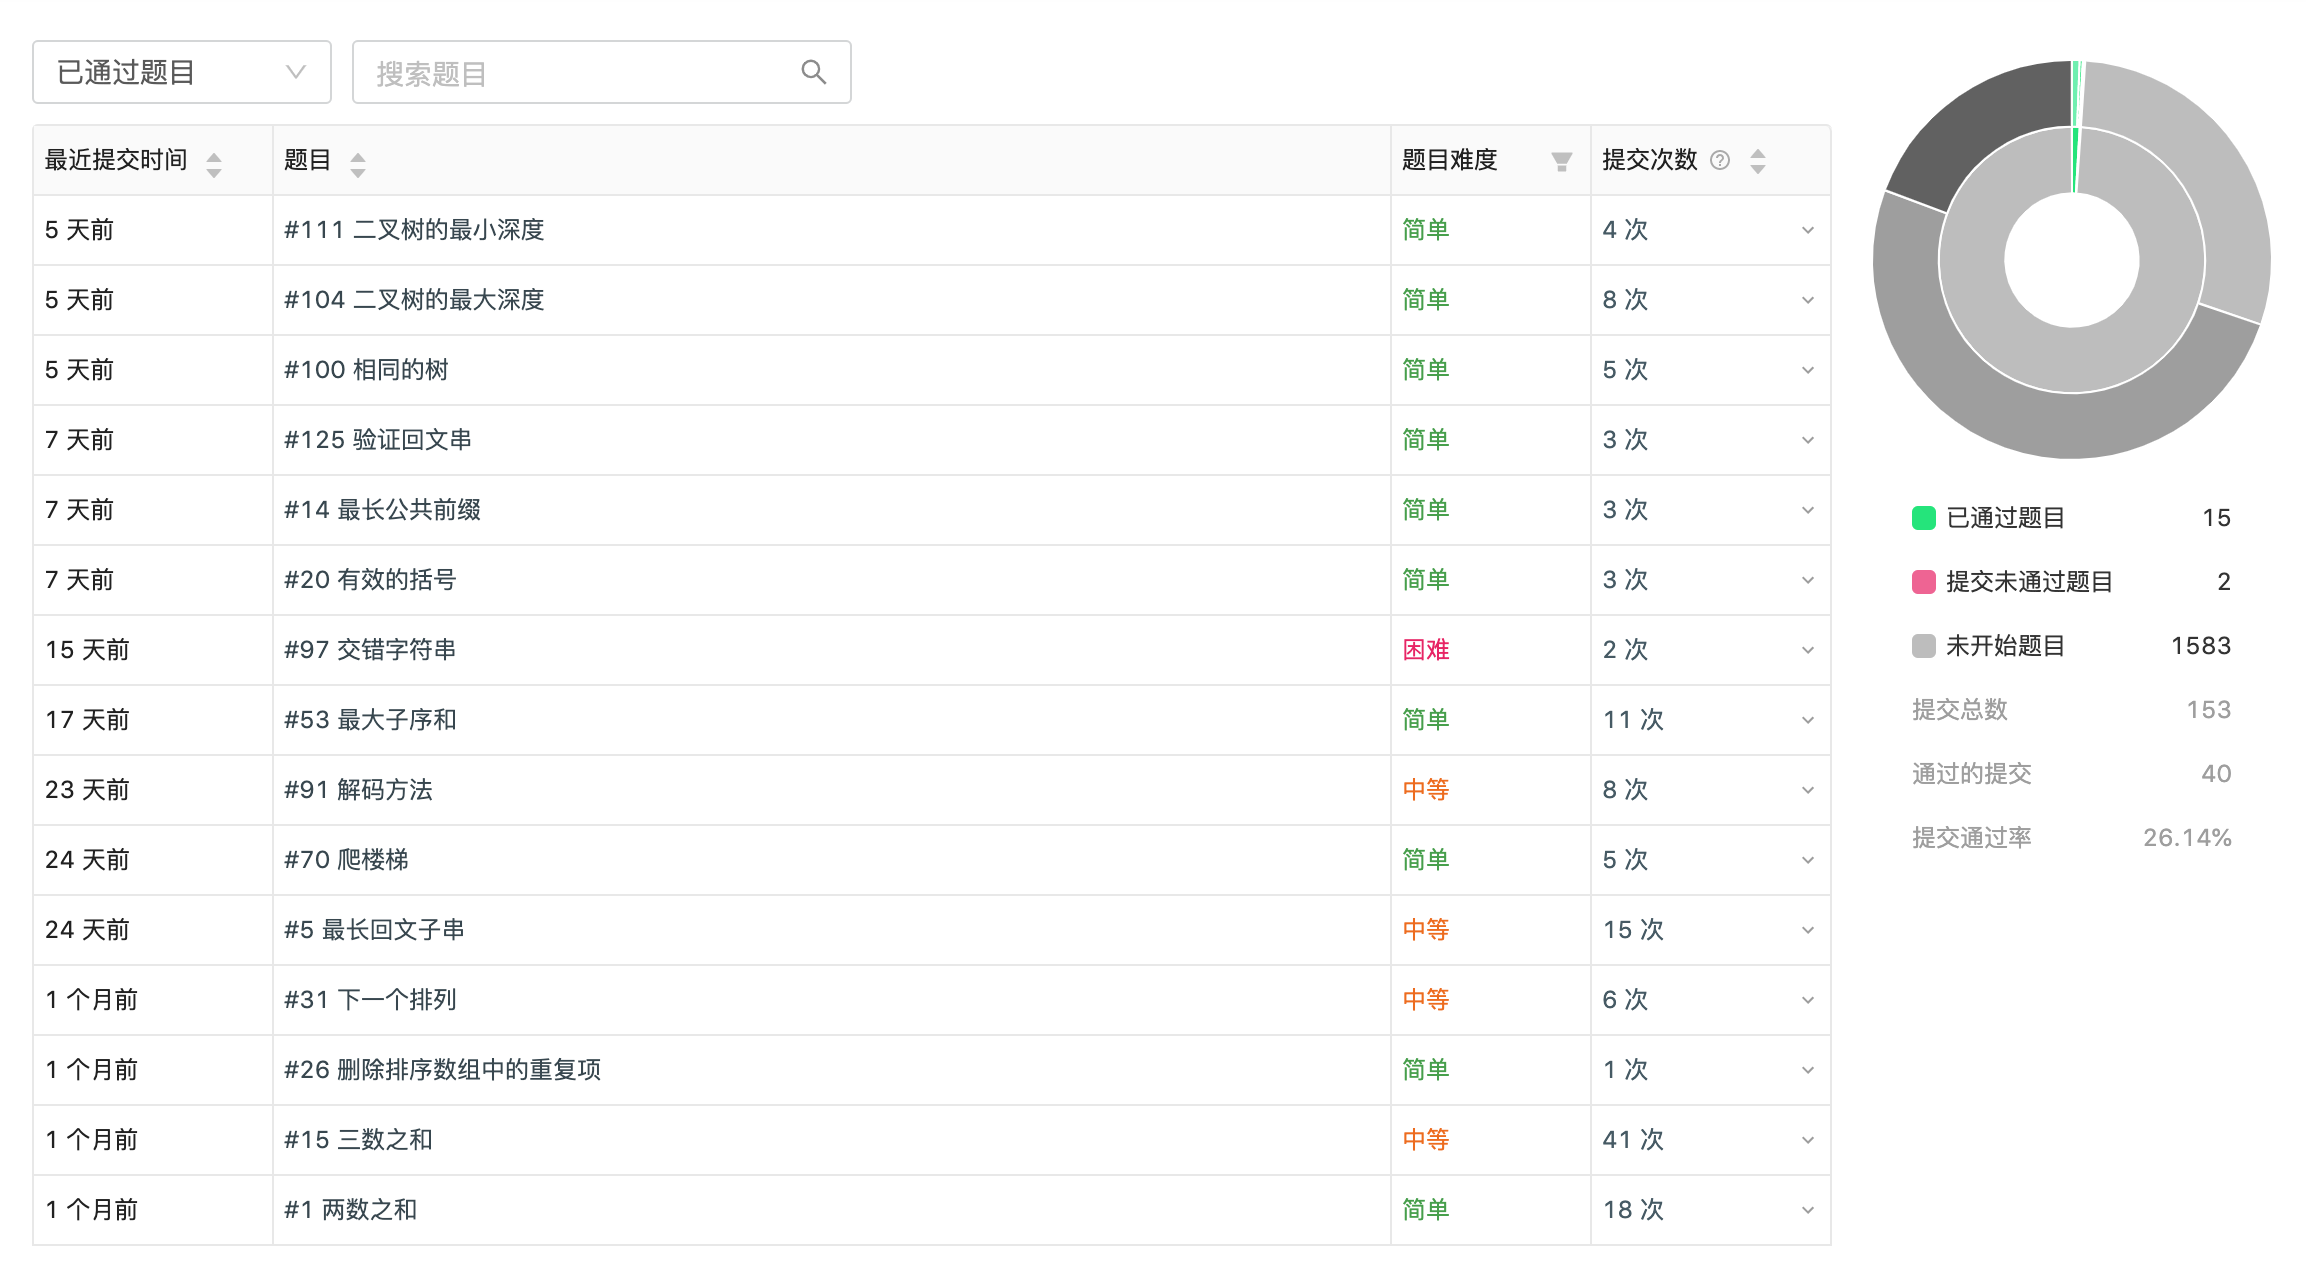
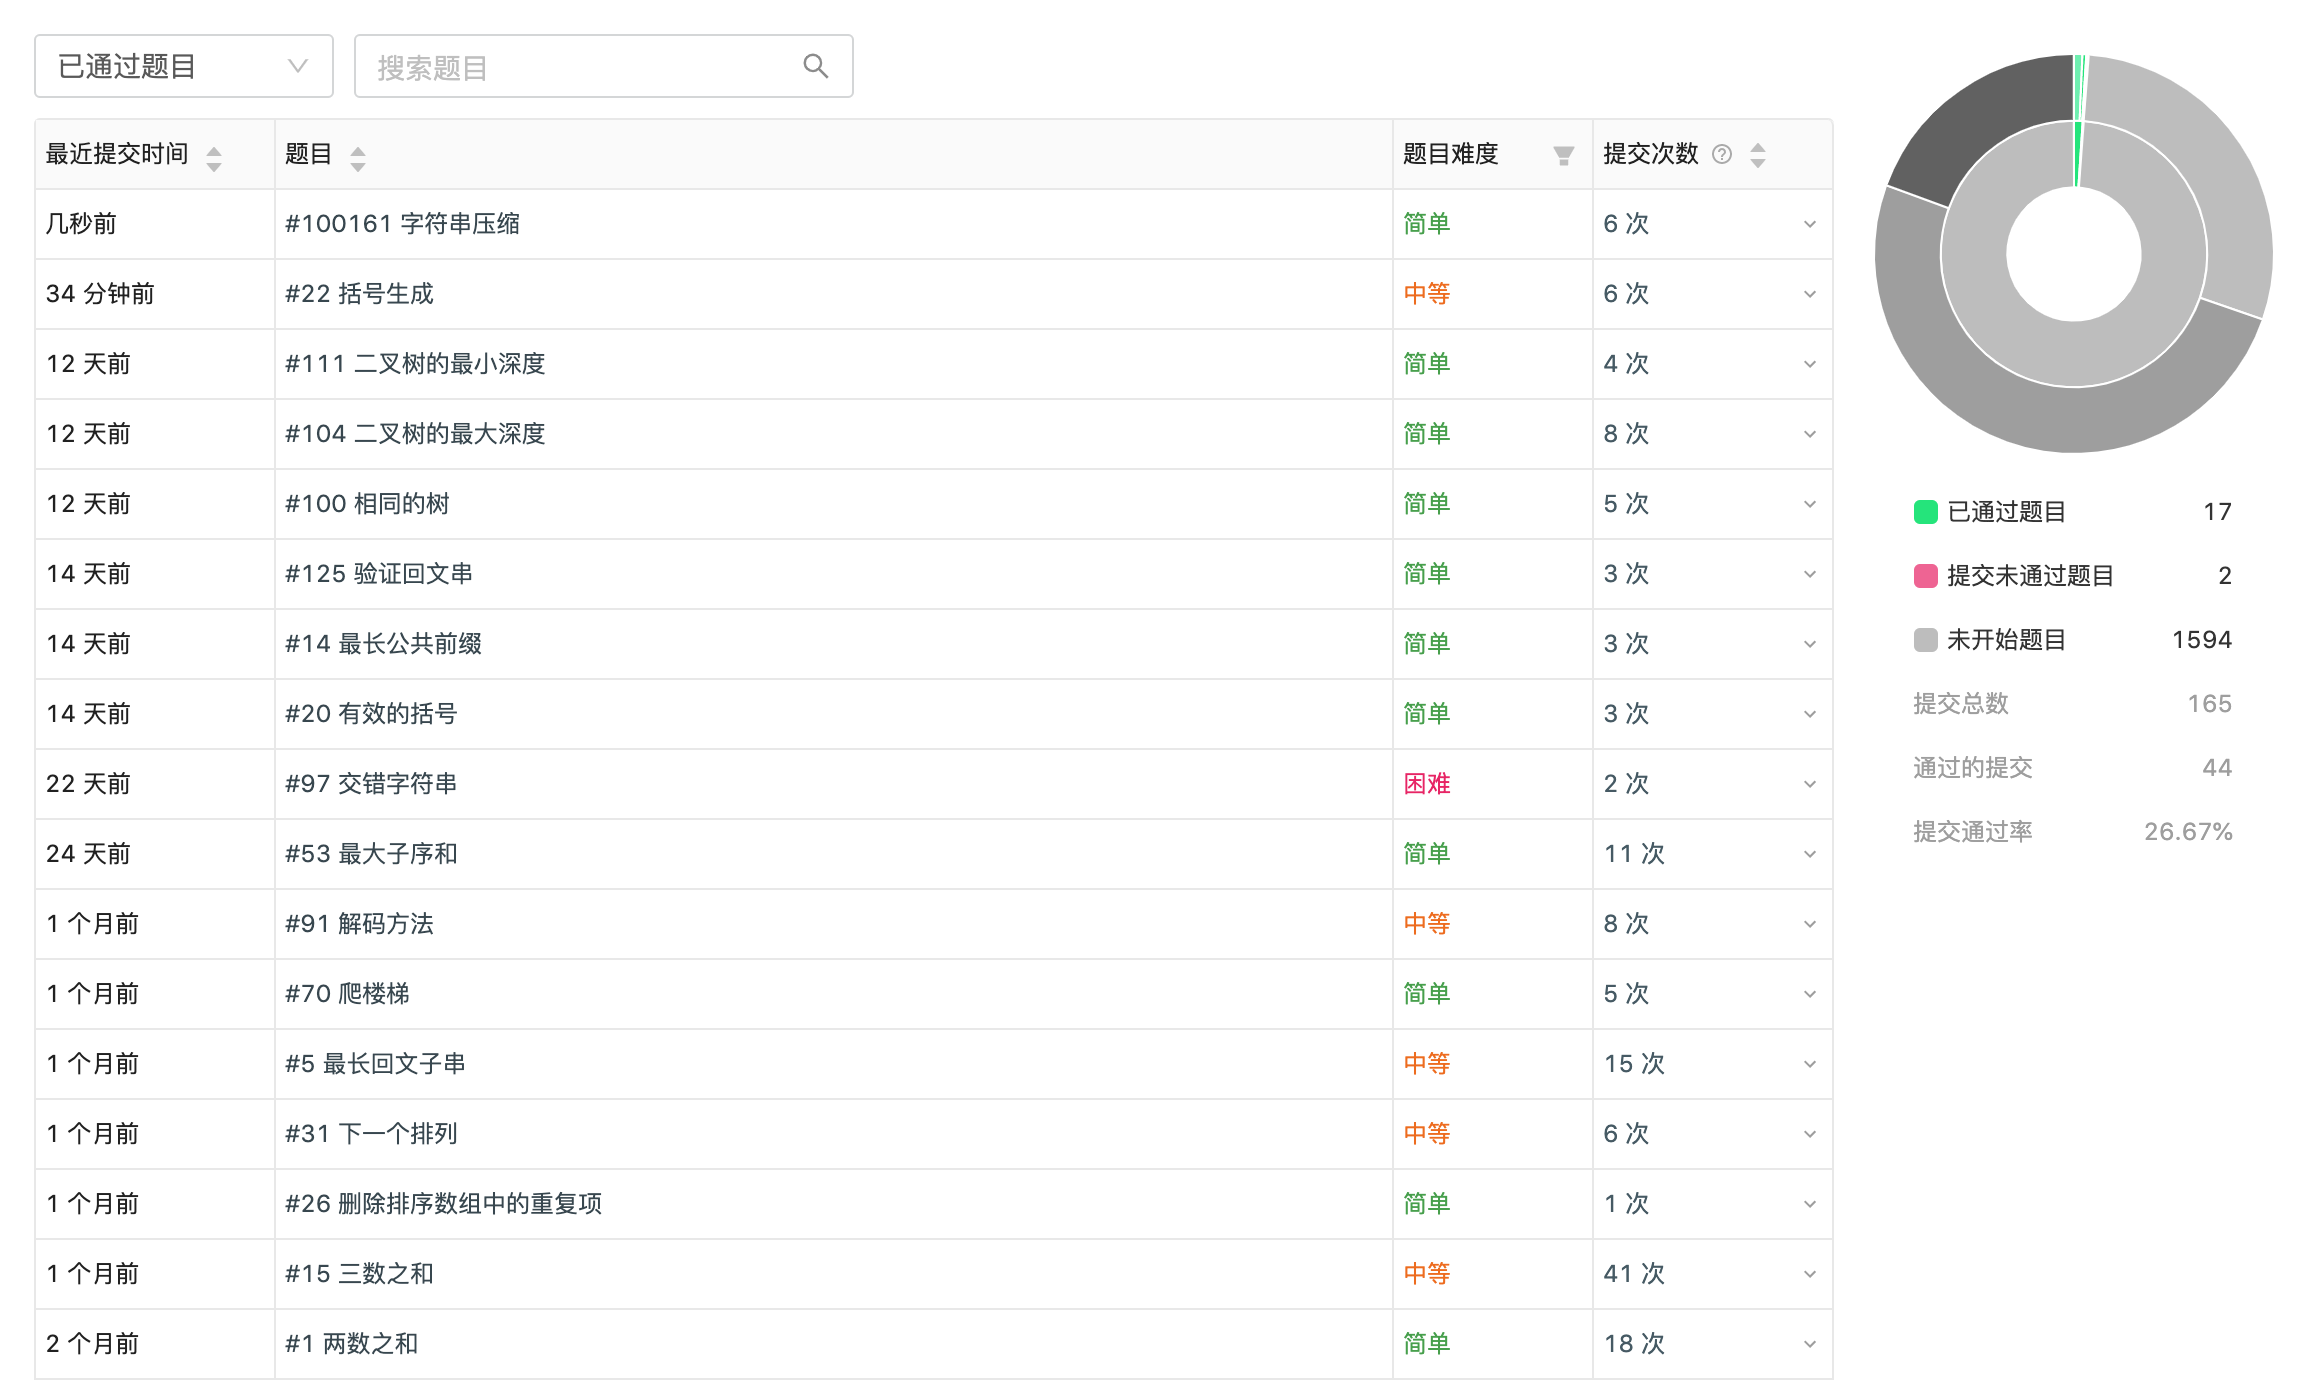
字符串

diff --git a/huyi/week3-string/括号生成.md b/huyi/week3-string/括号生成.md
@@ -1,0 +1,113 @@
+## 括号生成
+
+### 题目
+```javascript
+//数字 n 代表生成括号的对数，请你设计一个函数，用于能够生成所有可能的并且 有效的 括号组合。
+//
+//
+//
+// 示例：
+//
+// 输入：n = 3
+//输出：[
+//       "((()))",
+//       "(()())",
+//       "(())()",
+//       "()(())",
+//       "()()()"
+//     ]
+//
+// Related Topics 字符串 回溯算法
+
+
+//leetcode submit region begin(Prohibit modification and deletion)
+/**
+ * @param {number} n
+ * @return {string[]}
+ */
+var generateParenthesis = function (n) {
+};
+//leetcode submit region end(Prohibit modification and deletion)
+```
+
+### 思路
+- 缓存每阶的组合；
+- 以上一阶组合推导下一阶组合；
+- 下一阶组合即为当前组合每个子串每个遍历插入'()'的不重复集合；
+
+### 题解
+```javascript
+var generateParenthesis = function(n){
+if (!n) return [];
+  if (n === 1) return ['()'];
+
+  var mapping = {1: ['()']};
+
+  // 计算下一阶括号组合
+  var getNextMappings = function (buffer) {
+    const nextBuffer = [];
+
+    for (var j = 0; j < buffer.length; j++) {
+      // 子串
+      var cur = buffer[j];
+
+      // 遍历当前子串来推导新的子串
+      for (var i = 0; i < cur.length; i++) {
+        var temp = [cur.slice(0, i), '()', cur.slice(i)].join('');
+
+        // 当前子串不重复则入栈
+        !nextBuffer.includes(temp) && nextBuffer.push(temp);
+      }
+    }
+
+    return nextBuffer;
+  };
+
+  for (var i = 2; i <= n; i++) {
+    var temp = getNextMappings(mapping[i - 1], i);
+    // 缓存每阶括号集合
+    mapping[i] = temp;
+  }
+
+  return mapping[n];
+}
+```
+
+- 优化，采用对象缓存查找来替代`includes`函数
+```javascript
+var generateParenthesis = function (n) {
+  if (!n) return [];
+  if (n === 1) return ['()'];
+
+  var mapping = {1: ['()']};
+
+  // 计算下一阶括号组合
+  var getNextMappings = function (buffer) {
+    var nextBuffer = [];
+    var currMap = {}; // map 缓存
+    for (var j = 0; j < buffer.length; j++) {
+      var cur = buffer[j];
+
+      for (var i = 0; i < cur.length; i++) {
+        var temp = [cur.slice(0, i), '()', cur.slice(i)].join('');
+
+        !currMap[temp] && nextBuffer.push(temp);
+
+        // 缓存map 用来匹配重复子串
+        currMap[temp] = true;
+      }
+    }
+
+    currMap = null;
+    return nextBuffer;
+  };
+
+  for (var i = 2; i <= n; i++) {
+    var temp = getNextMappings(mapping[i - 1], i);
+    // 缓存每阶括号集合
+    mapping[i] = temp;
+  }
+
+  return mapping[n];
+};
+```

diff --git a/huyi/readme.md b/huyi/readme.md
@@ -18,6 +18,7 @@
 
 ## [字符串](./week3-string)
 1. [有效的括号](./week3-string/有效的括号.md)
+2. [括号生成](./week3-string/括号生成.md)
 
 ## [树](./week4-tree)
 1. [相同的树](./week4-tree/相同的树.md)

diff --git a/huyi/week3-string/readme.md b/huyi/week3-string/readme.md
@@ -1,3 +1,4 @@
 
 ## 数组
 1. [有效的括号](./有效的括号.md)
+2. [括号生成](./括号生成.md)
